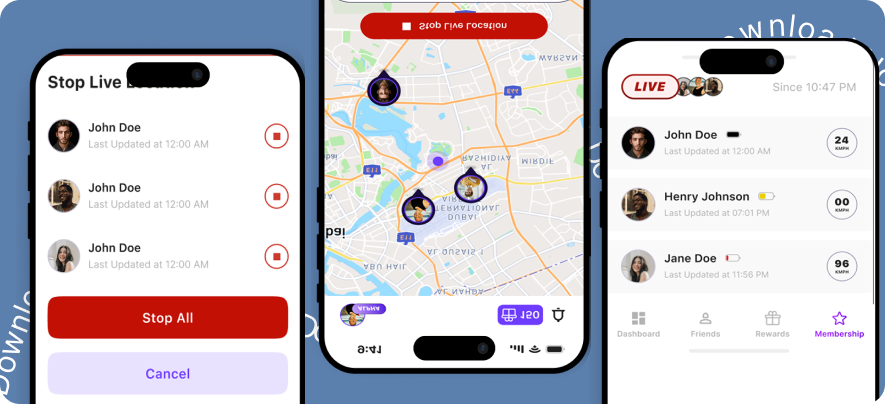
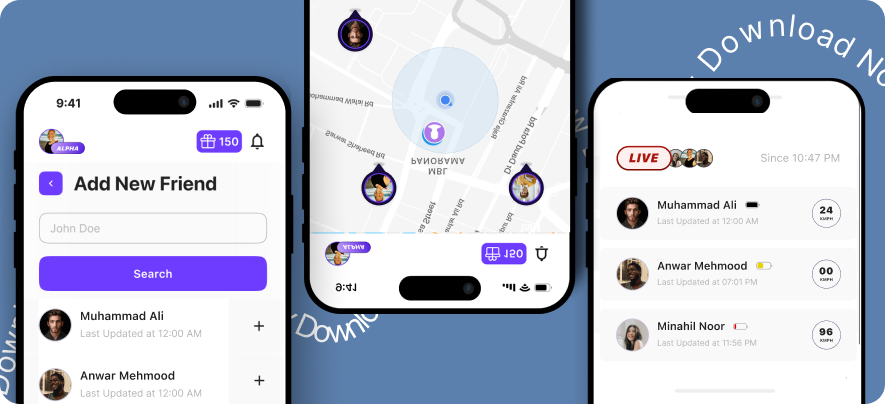
QA updated version2

diff --git a/src/pages/website/Features.tsx b/src/pages/website/Features.tsx
@@ -11,7 +11,7 @@ import SectionHeading from "../../components/web/SectionHeading";
 import ab1 from "../../assets/keyfeatureB.jpg";
 import ab2 from "../../assets/ff.png";
 import ab3 from "../../assets/ff3.jpg";
-import ab4 from "../../assets/ff4.png";
+import ab4 from "../../assets/ff44.png";
 
 import riskfree from "../../assets/featursabot/1.png";
 
@@ -183,7 +183,7 @@ const Features = () => {
                 weight="medium"
                 className="mb-4"
               >
-                2. Temporary Friend Tracking
+                2. Temporary Friend Monitoring
               </SubHeading>
               <Paragraph
                 size="sm"
@@ -311,7 +311,7 @@ const Features = () => {
       </motion.section>
 
       <motion.section className="bg-white  px-[56px] py-[120px] padding-50">
-        <motion.div className="grid grid-cols-1 lg:grid-cols-2 gap-12 mt-12 items-center">
+        <motion.div className="grid grid-cols-1 lg:grid-cols-2 gap-12  items-center">
           <div className="content">
             <SubHeading
               size="4xl"

diff --git a/src/components/Navbar.tsx b/src/components/Navbar.tsx
@@ -129,7 +129,7 @@ const Navbar = () => {
           size="lg"
           variant={"primary"}
         >
-          {isHome ? "Sign Up/ Login" : "get started"}
+          {isHome ? "Sign Up/ Login" : "login"}
         </Button>
         {!isHome && (
           <Button size="lg" variant={"secondary"}>
@@ -268,7 +268,7 @@ const Navbar = () => {
             </div>
             <div className="mt-8 flex flex-col items-stretch gap-4">
               <Button size="lg" variant={isHome ? "primary" : "secondary"}>
-                {isHome ? "Sign Up/ Login" : "get started"}
+                {isHome ? "Sign Up/ Login" : "login"}
               </Button>
               {!isAbout && !isHome && (
                 <Button size="lg" variant={"secondary"}>

diff --git a/src/pages/website/Feature3.tsx b/src/pages/website/Feature3.tsx
@@ -9,8 +9,9 @@ import StoreActionsButtons from "../../components/web/StoreActionsButtons";
 import SectionHeading from "../../components/web/SectionHeading";
 
 import kf1 from "../../assets/features/4kf1.png";
-import kf2 from "../../assets/features/4kf2.png";
-import kf3 from "../../assets/features/44kf3.png";
+import kf2 from "../../assets/features/4ff22.png";
+// import kf2 from "../../assets/features/4kf2.png";
+import kf3 from "../../assets/features/4kf2.png";
 import kf4 from "../../assets/features/4kf4.png";
 import FeatureSplitCard from "../../components/web/FeatureGridContainer";
 

diff --git a/src/pages/website/Features1.tsx b/src/pages/website/Features1.tsx
@@ -11,7 +11,7 @@ import SectionHeading from "../../components/web/SectionHeading";
 import kf1 from "../../assets/features/22kf1.png";
 import kf2 from "../../assets/features/2kf2.png";
 import kf3 from "../../assets/features/22kf3.png";
-import kf4 from "../../assets/features/22kf4.png";
+import kf4 from "../../assets/features/22kf44.png";
 import FeatureSplitCard from "../../components/web/FeatureGridContainer";
 
 import riskfree from "../../assets/featursabot/2.png";

diff --git a/src/pages/website/Features2.tsx b/src/pages/website/Features2.tsx
@@ -75,7 +75,7 @@ const Features2 = () => {
         >
           <SubHeading size="4xl" className="mb-5 mainheading">
             Driving
-            <span className="text-secondary">Insights</span>
+            <span className="text-secondary"> Insights</span>
           </SubHeading>
 
           <Paragraph size="sm" className="featuerHerText">
